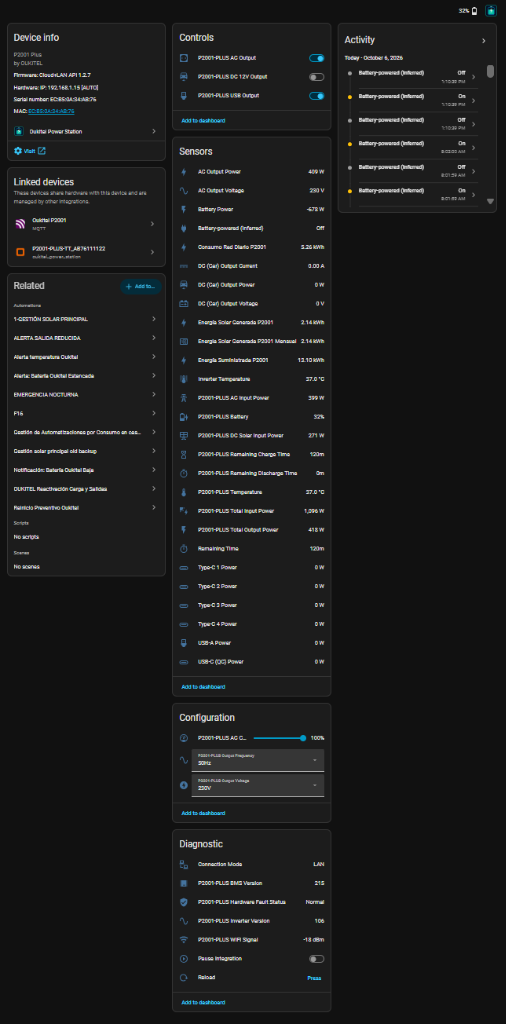
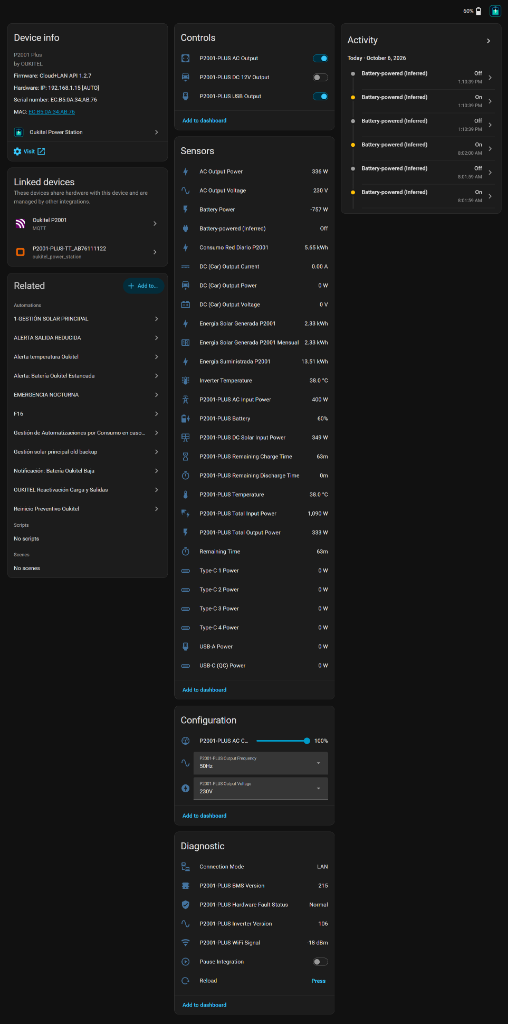
docs: update main dashboard screenshot with higher quality and native 1:1 render width

diff --git a/README.md b/README.md
@@ -64,7 +64,7 @@ Click the button below to add this repository directly to your HACS:
 
 <div align="center">
   <h3>⚡ Full Device Dashboard & Interactive Controls</h3>
-  <img src="https://raw.githubusercontent.com/VictorCV-DAM/ha-oukitel/main/docs/images/05_device_dashboard.png" alt="Oukitel Device Dashboard" width="90%" />
+  <img src="https://raw.githubusercontent.com/VictorCV-DAM/ha-oukitel/main/docs/images/05_device_dashboard.png" alt="Oukitel Device Dashboard" width="510" />
   <p><i>Live telemetry: real-time battery status, bidirectional switches (AC, 12V DC, USB), input/output power, diagnostics, and frequency/voltage controls.</i></p>
 </div>
 
